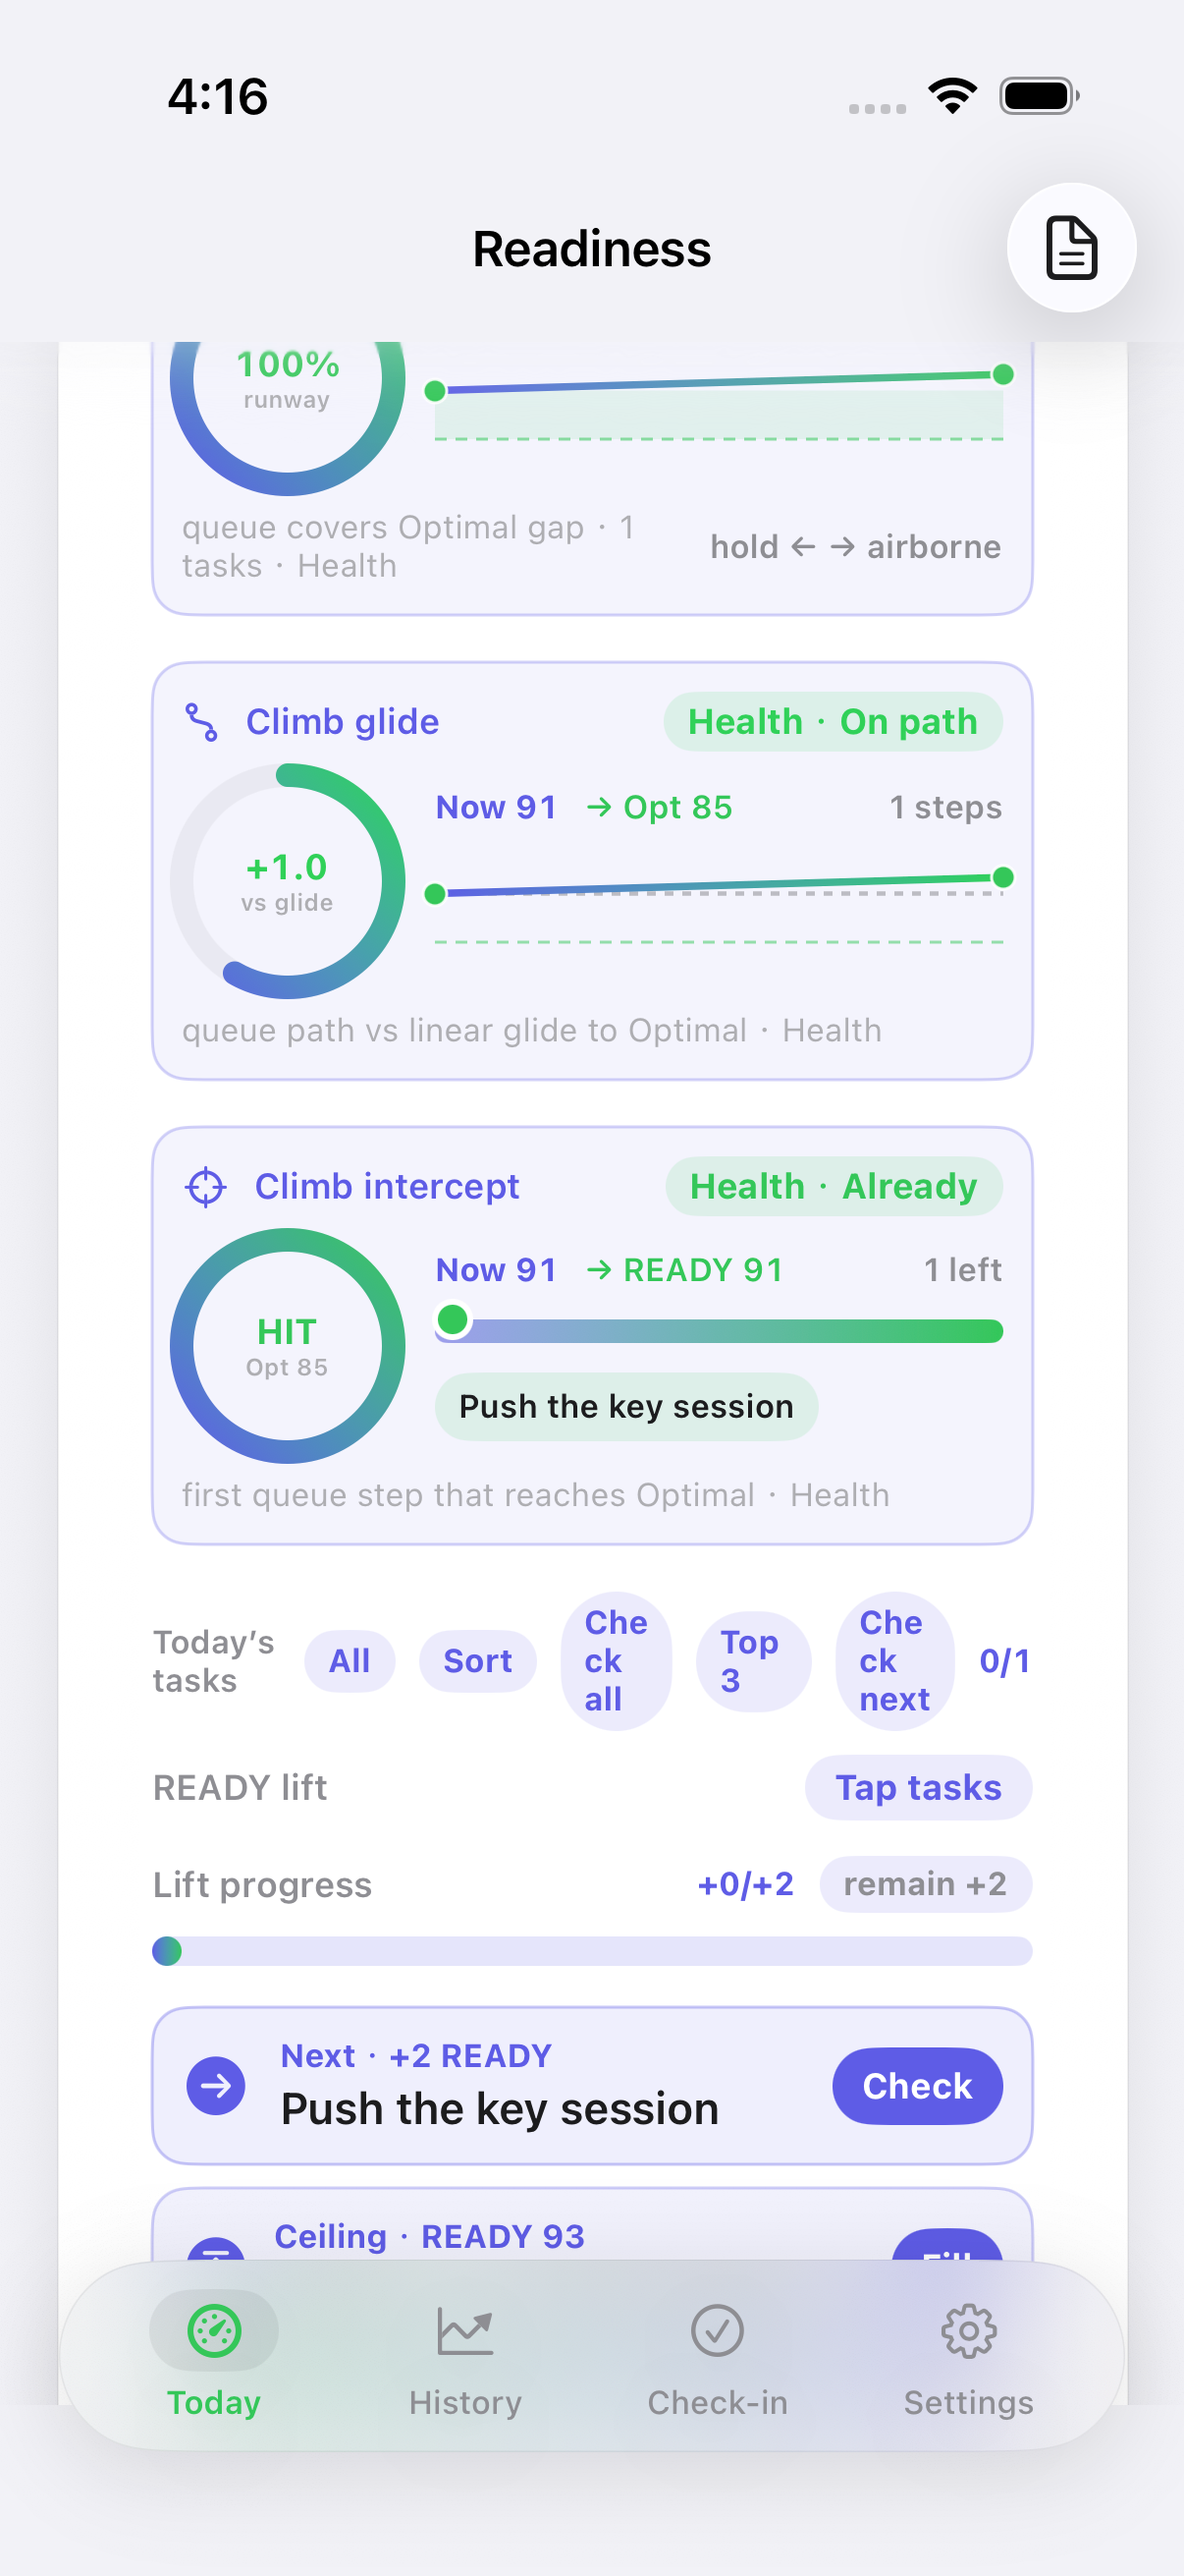
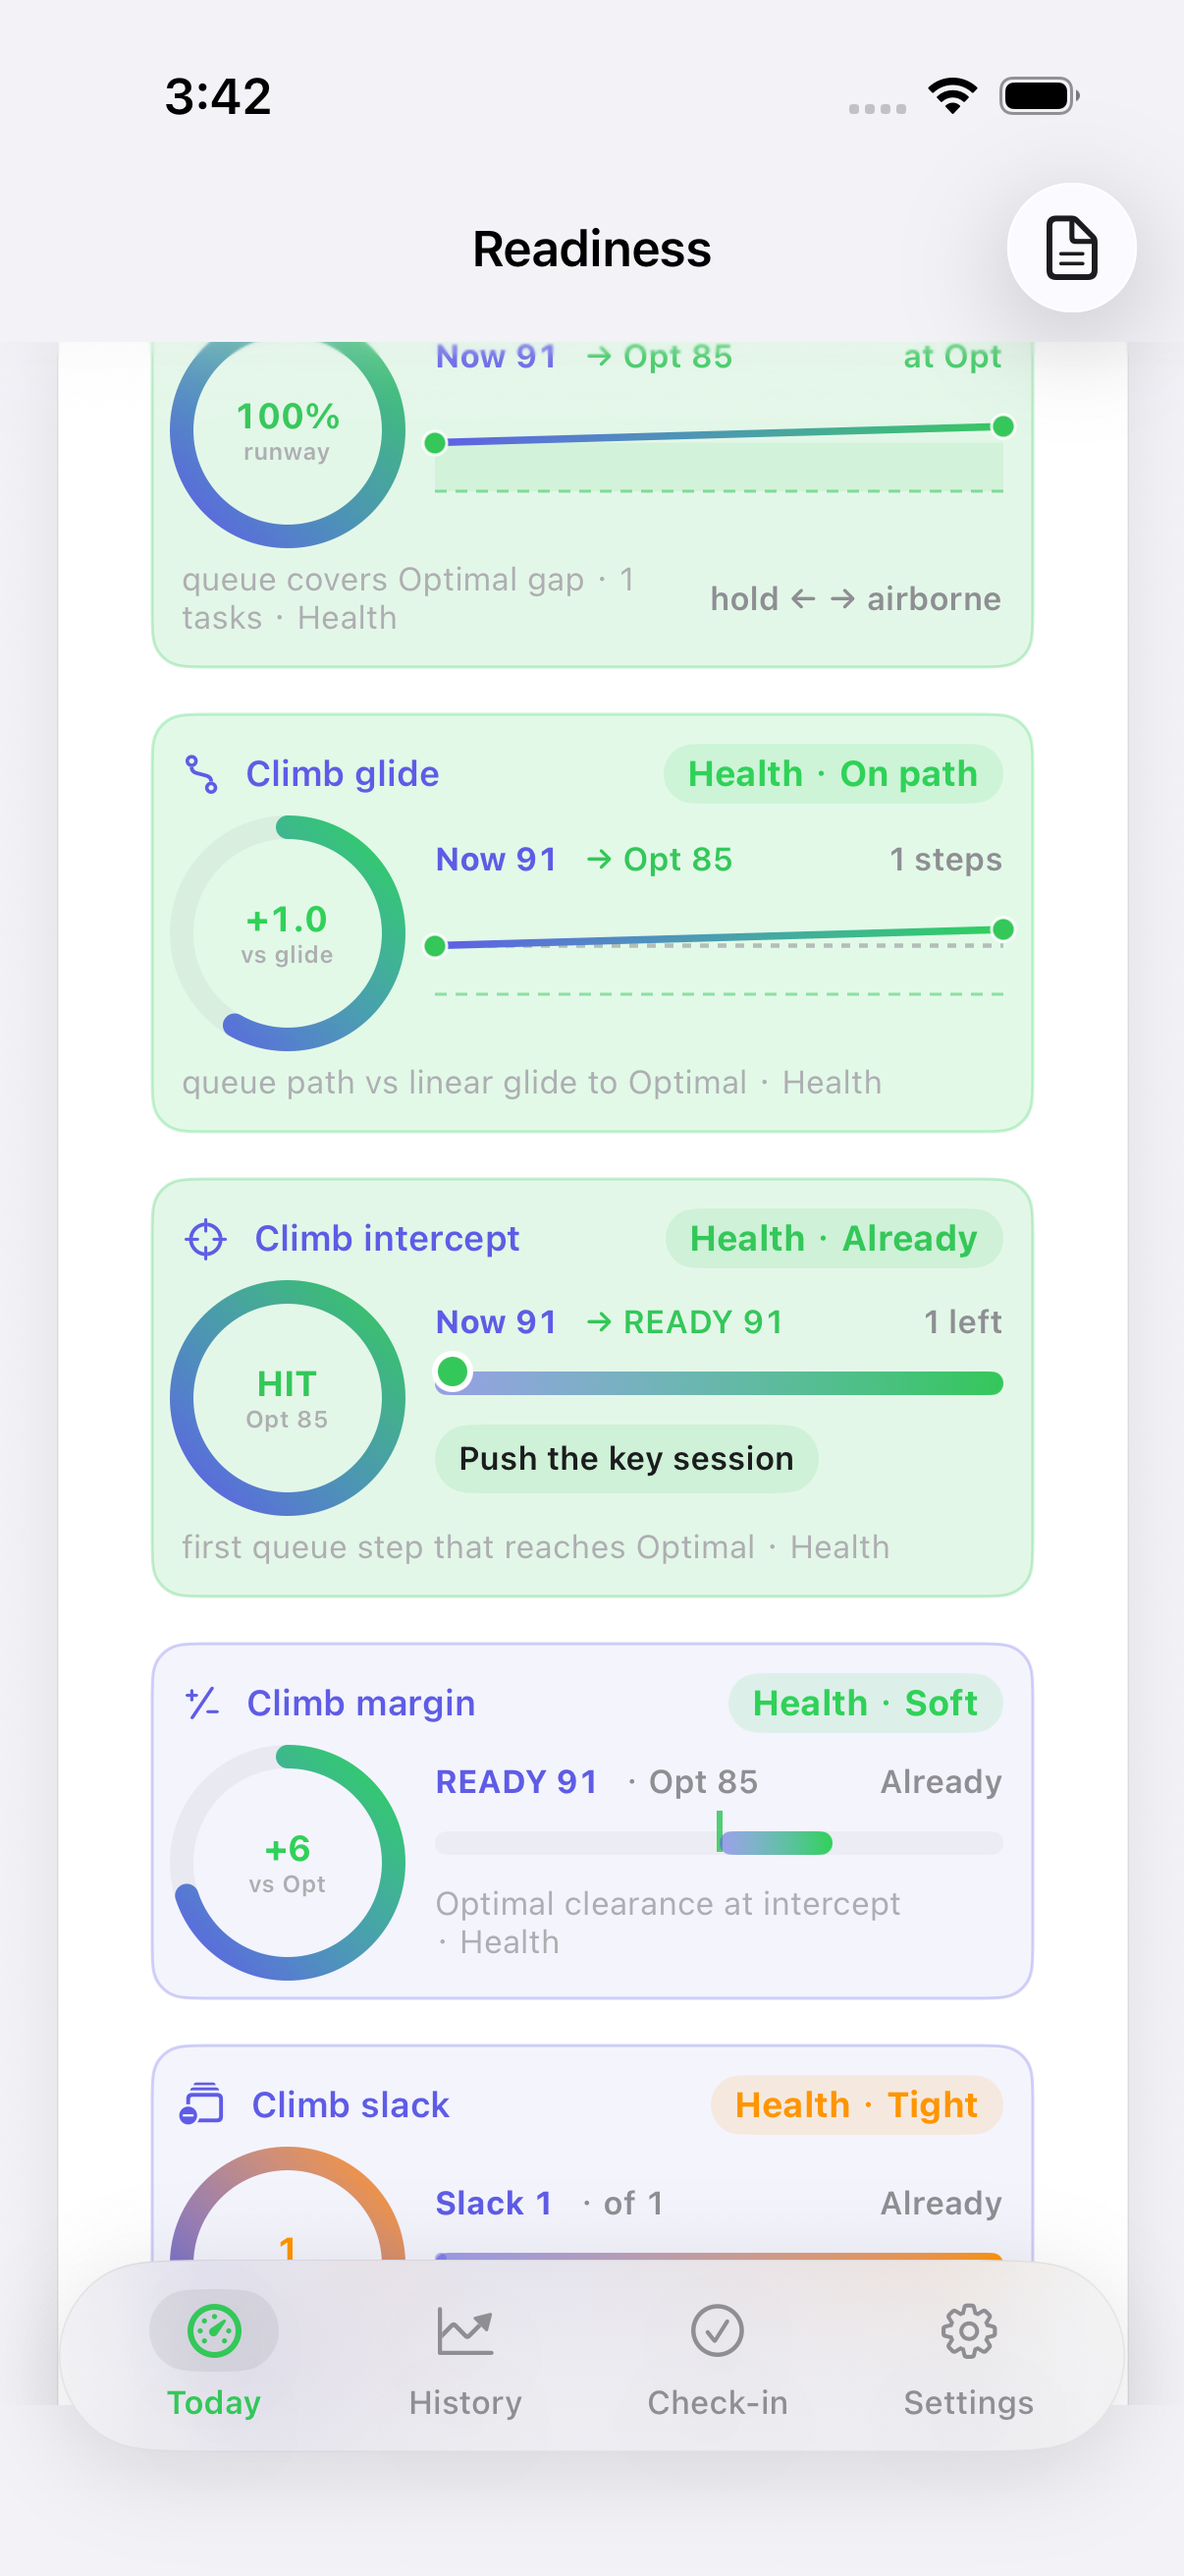
Honest #750: Simulator climb intercept (WHOOP wells)
Why: keep Load Simulator climb visuals on WHOOP-well parity so the intercept dial matches glide/runway/surplus/ETA/pace siblings instead of the older flat accent chrome.

Restyle the existing Simulator climb intercept dial (`sim.load.ready.climb.intercept`, Honest #639) with WHOOP wells.

- Idle Short (queue never reaches Optimal): ghost/hairline 8%/28% using secondaryText
- Active Already (start already at Optimal): 14% fill + 28% hairline (optimal)
- Active Step N (first crossing): 14% fill + 28% hairline (optimal)
- No new SurfaceID; no formula / verb / threshold / metric change

Proof: `testReadinessLoadSimulatorSurface` 770.158s, 0 failures (observer 784.728s); `.audit/verify-simulator-climb-intercept.png`
model=deepseek-flash (mechanical pattern-copy of #749 wells applied locally)

Changed region(s): [[0.1227, 0.1236, 0.8897, 0.9577], [0.1227, 0.0309, 0.2454, 0.0618]]

diff --git a/ReadinessTracker/Views/WhoopFeatures/ReadinessLoadSimulatorCard.swift b/ReadinessTracker/Views/WhoopFeatures/ReadinessLoadSimulatorCard.swift
@@ -4593,7 +4593,7 @@ struct ReadinessLoadSimulatorCard: View {
         .animation(.easeInOut(duration: 0.25), value: projectedCoupled)
     }
 
-    /// Honest #639: READY climb intercept — first queue step that crosses Optimal (richer sim graphics).
+    /// Honest #639 / #750: READY climb intercept — first queue step that crosses Optimal (Fitbit/Health graphics; WHOOP wells).
     @ViewBuilder
     private var readyClimbInterceptDial: some View {
         let pending = tasks.filter { !completedTaskIDs.contains($0.id) }.sorted { $0.readyDelta > $1.readyDelta }
@@ -4631,6 +4631,8 @@ struct ReadinessLoadSimulatorCard: View {
         let progress = hit
             ? 1.0
             : min(1.0, max(0.0, Double(end - start) / Double(max(1, target - start))))
+        let climbInterceptIsActive = hit
+        let wellTone: Color = climbInterceptIsActive ? tone : RTColor.secondaryText
         return VStack(alignment: .leading, spacing: 8) {
             HStack(spacing: 8) {
                 Image(systemName: "scope")
@@ -4729,10 +4731,10 @@ struct ReadinessLoadSimulatorCard: View {
                 .foregroundStyle(RTColor.tertiaryText)
         }
         .padding(10)
-        .background(accent.opacity(0.07), in: RoundedRectangle(cornerRadius: 12, style: .continuous))
+        .background(wellTone.opacity(climbInterceptIsActive ? 0.14 : 0.08), in: RoundedRectangle(cornerRadius: 12, style: .continuous))
         .overlay(
             RoundedRectangle(cornerRadius: 12, style: .continuous)
-                .stroke(accent.opacity(0.28), lineWidth: 1)
+                .stroke(wellTone.opacity(0.28), lineWidth: 1)
         )
         .accessibilityIdentifier(SurfaceID.readinessSimulatorClimbIntercept)
         .accessibilityLabel("Climb intercept \(stepLabel) \(readyLabel)")

diff --git a/ReadinessTracker/Design/Theme.swift b/ReadinessTracker/Design/Theme.swift
@@ -414,7 +414,7 @@ enum SurfaceID {
     static let readinessSimulatorClimbSurplus = "sim.load.ready.climb.surplus"  // Honest #621 / #747
     static let readinessSimulatorClimbRunway = "sim.load.ready.climb.runway"  // Honest #623 / #748
     static let readinessSimulatorClimbGlide = "sim.load.ready.climb.glide"  // Honest #626 / #749
-    static let readinessSimulatorClimbIntercept = "sim.load.ready.climb.intercept"  // Honest #639
+    static let readinessSimulatorClimbIntercept = "sim.load.ready.climb.intercept"  // Honest #639 / #750
     static let readinessSimulatorClimbMargin = "sim.load.ready.climb.margin"  // Honest #712
     static let readinessSimulatorClimbSlack = "sim.load.ready.climb.slack"  // Honest #713
     static let readinessSimulatorClimbOvershoot = "sim.load.ready.climb.overshoot"  // Honest #714

diff --git a/ReadinessTrackerUITests/SurfacesUITests.swift b/ReadinessTrackerUITests/SurfacesUITests.swift
@@ -10946,7 +10946,7 @@ final class SurfacesUITests: XCTestCase {
         }
         saveShot("verify-simulator-climb-glide.png")
 
-        // Honest #639: READY climb intercept
+        // Honest #639 / #750: READY climb intercept (WHOOP wells)
         let climbIntercept = app.descendants(matching: .any)["sim.load.ready.climb.intercept"].firstMatch
         XCTAssertTrue(climbIntercept.waitForExistence(timeout: 5)
                       || app.descendants(matching: .any)["sim.load.ready.climb.glide"].firstMatch.exists

diff --git a/.audit/decision-log-2026-11-04.md b/.audit/decision-log-2026-11-04.md
@@ -336,3 +336,9 @@
 
 | 03:18 HKT | #749 Simulator climb glide | prove | UITest suite green /tmp/RT-DD749 (772.424s, 0 failures; observer 786.630s); model=deepseek-flash |
 | 03:19 HKT | #749 Simulator climb glide | land | proof PNG + receipt; SID sim.load.ready.climb.glide; PR squash next; model=deepseek-flash |
+
+| 03:29 HKT | Honest #750 Simulator climb intercept | model=deepseek-flash | restyle existing sim.load.ready.climb.intercept after climb glide #749; WHOOP ghost/active wells; mechanical pattern-copy of #749 wells applied locally (no separate model iterate needed) | mid-ship |
+| 03:29 HKT | Honest #750 Simulator climb intercept | prove | started UITest /tmp/RT-DD750; model=deepseek-flash | mid-ship |
+
+| 03:47 HKT | #750 Simulator climb intercept | prove | UITest suite green /tmp/RT-DD750 (770.158s, 0 failures; observer 784.728s); model=deepseek-flash |
+| 03:48 HKT | #750 Simulator climb intercept | land | proof PNG + receipt; SID sim.load.ready.climb.intercept; PR squash next; model=deepseek-flash |

diff --git a/.audit/features/simulator-climb-intercept.md b/.audit/features/simulator-climb-intercept.md
@@ -1,6 +1,7 @@
-# Honest #639: Simulator climb intercept
+# Honest #639 / #750: Simulator climb intercept (WHOOP wells)
 
 First queue step that crosses Optimal (85). HIT/MISS dial + step rail + task chips.
+Idle Short (queue never reaches Optimal) = ghost/hairline 8/28; active Already (start already at Optimal) = 14 fill + 28 hairline (optimal); active Step N (first crossing) = 14 fill + 28 hairline (optimal).
 SurfaceID: `sim.load.ready.climb.intercept`
 Proof: `.audit/verify-simulator-climb-intercept.png`
 UITest: `testReadinessLoadSimulatorSurface`

diff --git a/.audit/simulator-climb-intercept.md b/.audit/simulator-climb-intercept.md
@@ -1,5 +1,6 @@
-# Honest #639: Simulator climb intercept
+# Honest #639 / #750: Simulator climb intercept (WHOOP wells)
 
 First queue step that crosses Optimal (85). HIT/MISS dial + step rail + task chips.
+Idle Short (queue never reaches Optimal) = ghost/hairline 8/28; active Already (start already at Optimal) = 14 fill + 28 hairline (optimal); active Step N (first crossing) = 14 fill + 28 hairline (optimal).
 SurfaceID: `sim.load.ready.climb.intercept`
 Proof: `.audit/verify-simulator-climb-intercept.png`

diff --git a/.cursor/skills/verify-readiness-tracker/features/simulator-climb-intercept.md b/.cursor/skills/verify-readiness-tracker/features/simulator-climb-intercept.md
@@ -2,3 +2,4 @@
 Today → Load Simulator → Climb intercept dial
 UITest testReadinessLoadSimulatorSurface
 SID sim.load.ready.climb.intercept
+WHOOP wells: idle Short (queue never reaches Optimal) = ghost/hairline 8%/28%; active Already (start already at Optimal) = 14% fill + 28% hairline (optimal); active Step N (first crossing) = 14% fill + 28% hairline (optimal). No formula / verb / threshold / metric change.
